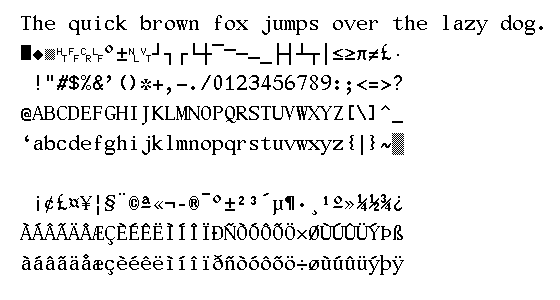
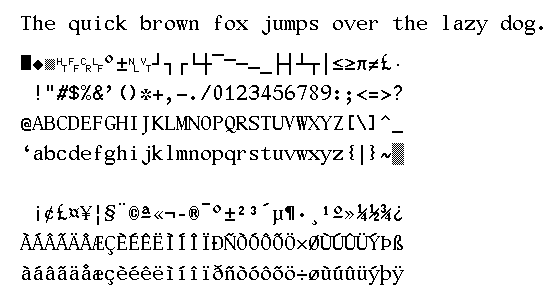
Update preview

Changed region(s): [[0.0304, 0.15, 0.7286, 0.57], [0.0304, 0.63, 0.7286, 0.96], [0.6982, 0.39, 0.7286, 0.48]]

diff --git a/gallant_test.go b/gallant_test.go
@@ -43,7 +43,7 @@ func TestPreview(t *testing.T) {
 	}
 	d.DrawString("The quick brown fox jumps over the lazy dog.")
 	for i := 0; i < 8; i++ {
-		d.Dot = fixed.P(20, 60+i*30)
+		d.Dot = fixed.P(20, 70+i*30)
 		d.DrawString(runeRange(t, i*0x20, 0x20))
 	}
 	writeImage(t, "preview.png", dst)
